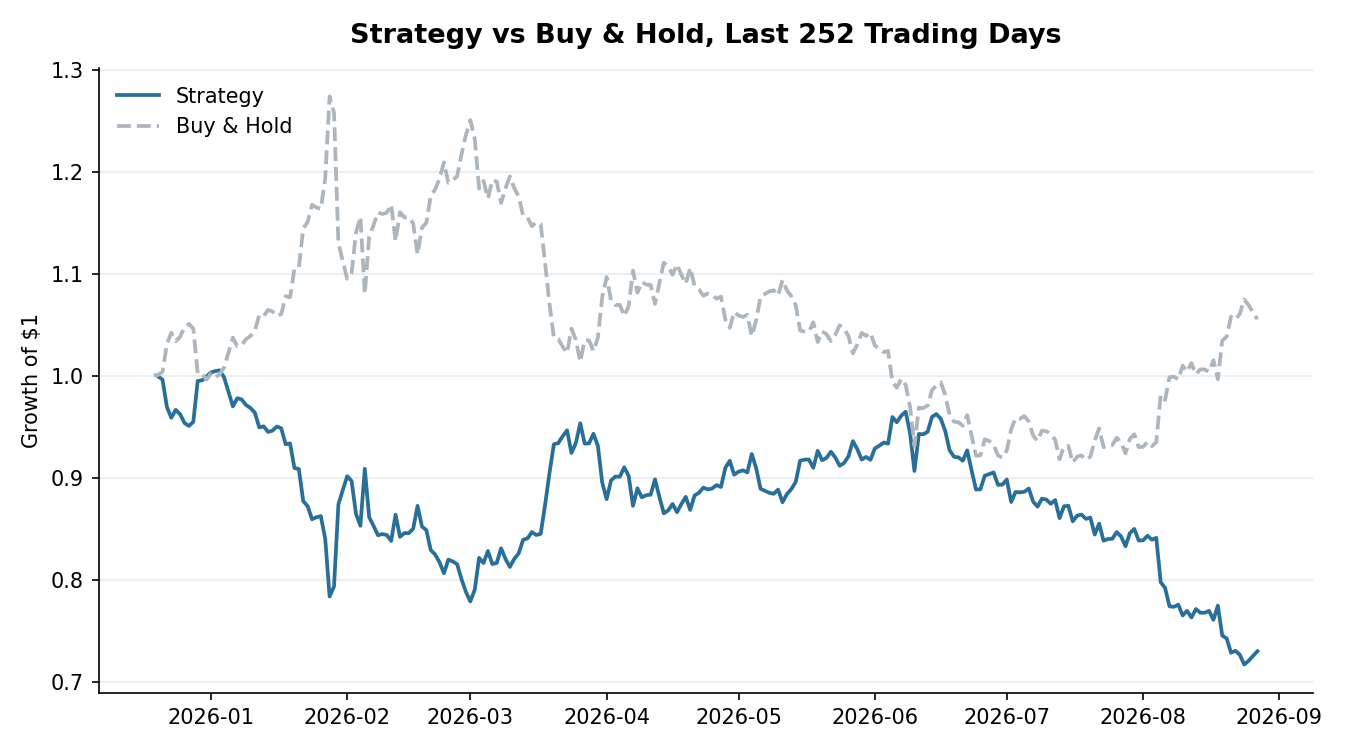
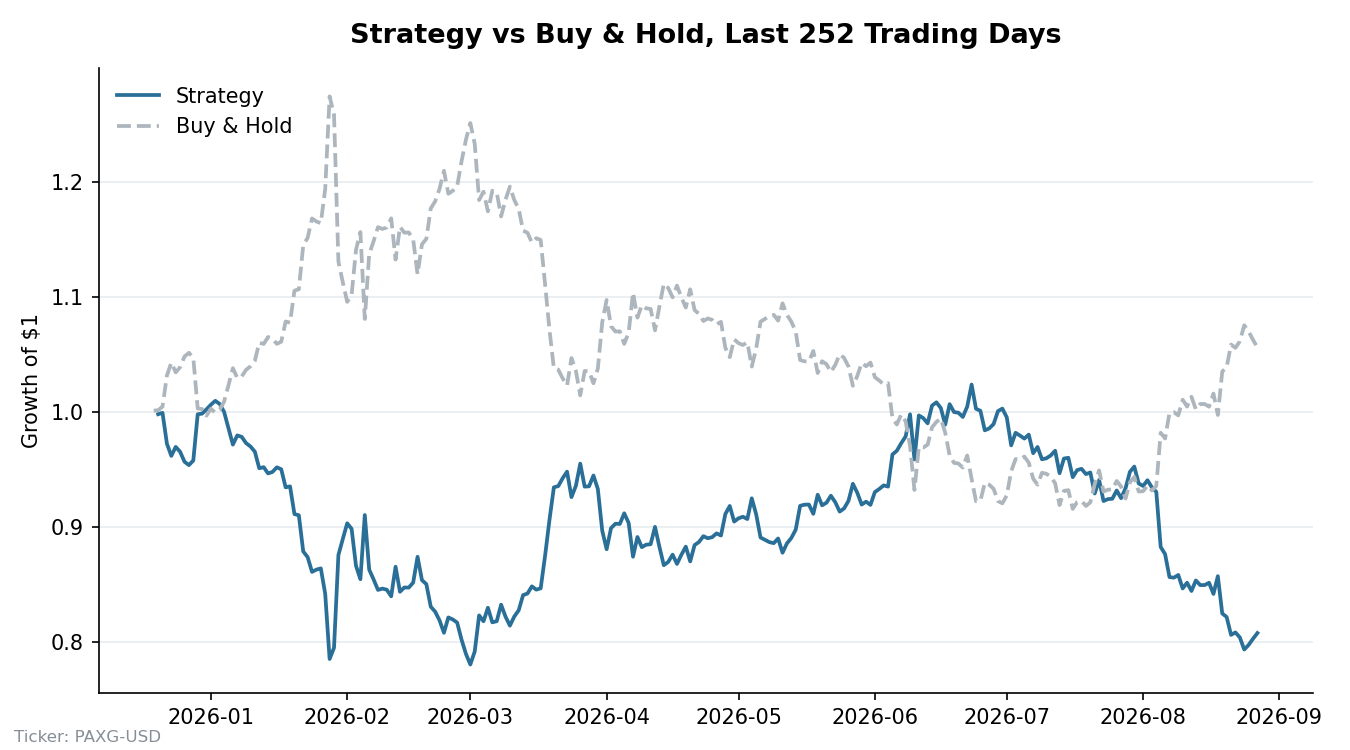
Added ticker footnote to chart and fixed random_state for reproducibility

diff --git a/backtest.py b/backtest.py
@@ -33,6 +33,7 @@ def plot_results(df, out_path=f"{ASSETS_DIR}/backtest.png"):
     ax.plot(df.index, df["cum_bh_returns"], label="Buy & Hold", color="#adb5bd", linewidth=1.8, linestyle="--")
 
     ax.set_title("Strategy vs Buy & Hold, Last 252 Trading Days", fontsize=13, weight="bold", pad=12)
+    fig.text(0.01, 0.01, "Ticker: PAXG-USD", fontsize=8, color="#868e96")
     ax.set_ylabel("Growth of $1")
     ax.spines["top"].set_visible(False)
     ax.spines["right"].set_visible(False)

diff --git a/model.py b/model.py
@@ -2,7 +2,7 @@ from sklearn.ensemble import RandomForestRegressor
 
 class StockModel:
     def __init__(self):
-        self.model = RandomForestRegressor(n_estimators=100)
+        self.model = RandomForestRegressor(n_estimators=100, random_state=42)
 
     def train(self, df):
         X = df.drop("target", axis=1)
